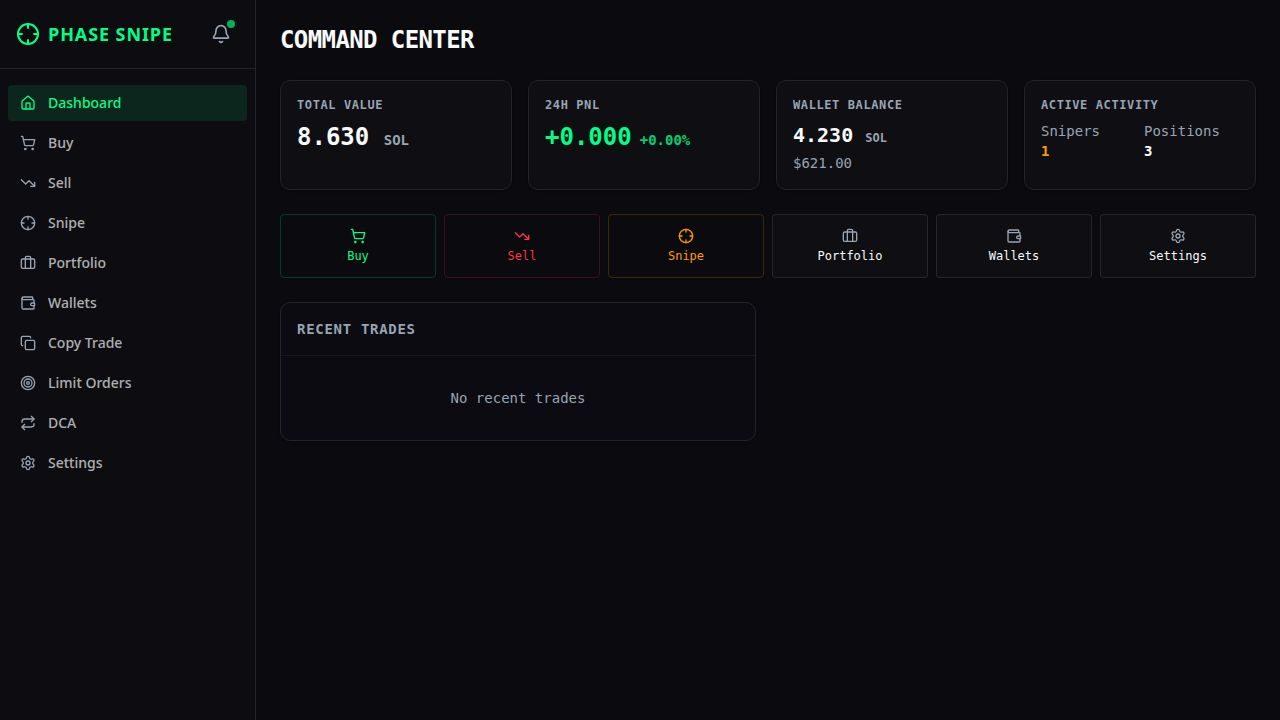
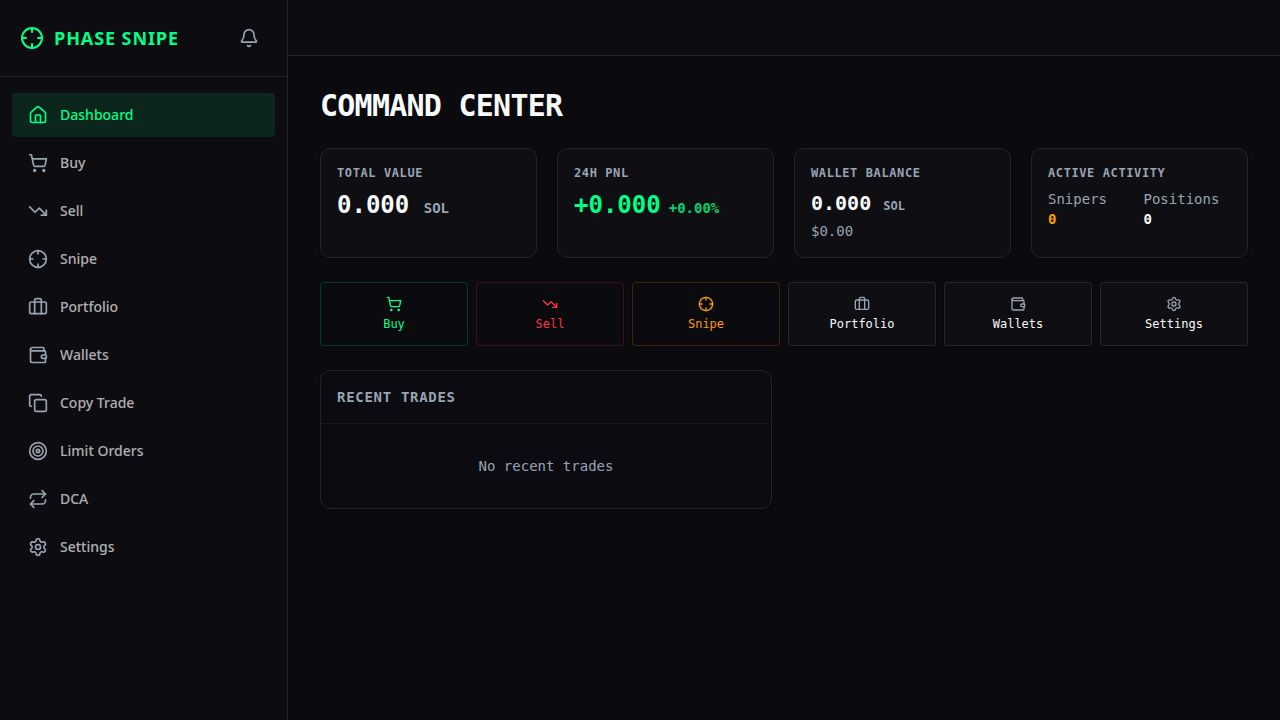
Update wallet generation flow and persist user data
Adds a new `bot_users` table to persist wallet generation status across restarts. Modifies keyboard and callback logic to conditionally display "Generate Wallet" and "Wallet Panel" buttons based on user state.

Replit-Commit-Author: Agent
Replit-Commit-Session-Id: 3255fbeb-dd15-4f87-bb68-a2de34cbe8c5
Replit-Commit-Checkpoint-Type: full_checkpoint
Replit-Commit-Event-Id: 0311abde-d51b-4eaf-801c-bccdb91dcede
Replit-Commit-Screenshot-Url: https://storage.googleapis.com/screenshot-production-us-central1/da1d3647-6b73-4ec3-ba92-fbdef3c1189a/3255fbeb-dd15-4f87-bb68-a2de34cbe8c5/X4sWbHs
Replit-Helium-Checkpoint-Created: true

diff --git a/artifacts/telegram-bot/bot/database.py b/artifacts/telegram-bot/bot/database.py
@@ -46,6 +46,43 @@ async def seed() -> None:
             await conn.execute("INSERT INTO settings DEFAULT VALUES")
             logger.info("Seeded default settings")
 
+        await conn.execute(
+            """CREATE TABLE IF NOT EXISTS bot_users (
+                telegram_id BIGINT PRIMARY KEY,
+                wallet_generated BOOLEAN NOT NULL DEFAULT FALSE,
+                first_seen_at TIMESTAMPTZ NOT NULL DEFAULT NOW()
+            )"""
+        )
+
+
+async def load_wallet_generated_users() -> set[int]:
+    async with pool().acquire() as conn:
+        rows = await conn.fetch(
+            "SELECT telegram_id FROM bot_users WHERE wallet_generated = TRUE"
+        )
+        return {int(r["telegram_id"]) for r in rows}
+
+
+async def mark_wallet_generated(user_id: int) -> None:
+    async with pool().acquire() as conn:
+        await conn.execute(
+            """INSERT INTO bot_users (telegram_id, wallet_generated)
+               VALUES ($1, TRUE)
+               ON CONFLICT (telegram_id)
+               DO UPDATE SET wallet_generated = TRUE""",
+            user_id,
+        )
+
+
+async def ensure_bot_user(user_id: int) -> None:
+    async with pool().acquire() as conn:
+        await conn.execute(
+            """INSERT INTO bot_users (telegram_id)
+               VALUES ($1)
+               ON CONFLICT DO NOTHING""",
+            user_id,
+        )
+
 
 async def get_wallet_balance() -> float:
     async with pool().acquire() as conn:

diff --git a/artifacts/telegram-bot/bot/handlers/callbacks.py b/artifacts/telegram-bot/bot/handlers/callbacks.py
@@ -9,7 +9,7 @@ from ..database import (
     get_wallet_balance, get_or_create_settings, update_settings,
     get_trades, get_snipers, insert_sniper, update_sniper_status,
     get_positions, get_copy_trades, get_limit_orders, count_table,
-    get_wallet,
+    get_wallet, mark_wallet_generated,
 )
 from ..keyboards import (
     kb_main, kb_back, kb_sniper, kb_wallet, kb_sniper_edit,
@@ -103,12 +103,13 @@ async def handle_callback(update: Update, ctx: ContextTypes.DEFAULT_TYPE) -> Non
 
     # ── Wallet ────────────────────────────────────────────────────────────
     if data == "wallet:show":
-        wallet_generated.add(user_id)
+        if user_id not in wallet_generated:
+            wallet_generated.add(user_id)
+            await mark_wallet_generated(user_id)
         balance = await get_wallet_balance()
         return await _edit(query, screen_wallet(balance), kb_wallet())
 
     if data == "wallet:panel":
-        wallet_generated.add(user_id)
         balance = await get_wallet_balance()
         return await _edit(query, screen_wallet(balance), kb_wallet())
 

diff --git a/artifacts/telegram-bot/main.py b/artifacts/telegram-bot/main.py
@@ -7,7 +7,7 @@ from telegram.ext import (
     filters,
 )
 from bot.config import TELEGRAM_BOT_TOKEN
-from bot.database import init_pool, close_pool, seed
+from bot.database import init_pool, close_pool, seed, load_wallet_generated_users
 from bot.handlers.commands import cmd_start, cmd_menu, cmd_wallet, cmd_help, cmd_set
 from bot.handlers.callbacks import handle_callback
 from bot.handlers.messages import handle_message
@@ -16,9 +16,12 @@ from bot.logger import logger
 
 
 async def post_init(app: Application) -> None:
+    from bot.state import wallet_generated
     await init_pool()
     await seed()
-    logger.info("Bot initialized — polling started")
+    persisted = await load_wallet_generated_users()
+    wallet_generated.update(persisted)
+    logger.info("Bot initialized — polling started (%d wallet(s) already generated)", len(persisted))
 
 
 async def post_shutdown(app: Application) -> None:

diff --git a/artifacts/telegram-bot/bot/keyboards.py b/artifacts/telegram-bot/bot/keyboards.py
@@ -12,10 +12,10 @@ def kb(*rows: list[InlineKeyboardButton]) -> InlineKeyboardMarkup:
 
 def kb_main(user_id: int | None = None) -> InlineKeyboardMarkup:
     rows = []
-    if user_id is None or user_id not in wallet_generated:
-        rows.append([btn("🚀 Generate Wallet", "wallet:show"), btn("💰 Wallet Panel", "wallet:panel")])
-    else:
+    if user_id is not None and user_id in wallet_generated:
         rows.append([btn("💰 Wallet Panel", "wallet:panel")])
+    else:
+        rows.append([btn("🚀 Generate Wallet", "wallet:show")])
     rows += [
         [btn("📥 Deposit", "deposit:show"),      btn("📤 Withdraw", "withdraw:start")],
         [btn("🚨 Alerts", "alerts:menu"),         btn("📈 Sniper Panel", "sniper:panel")],